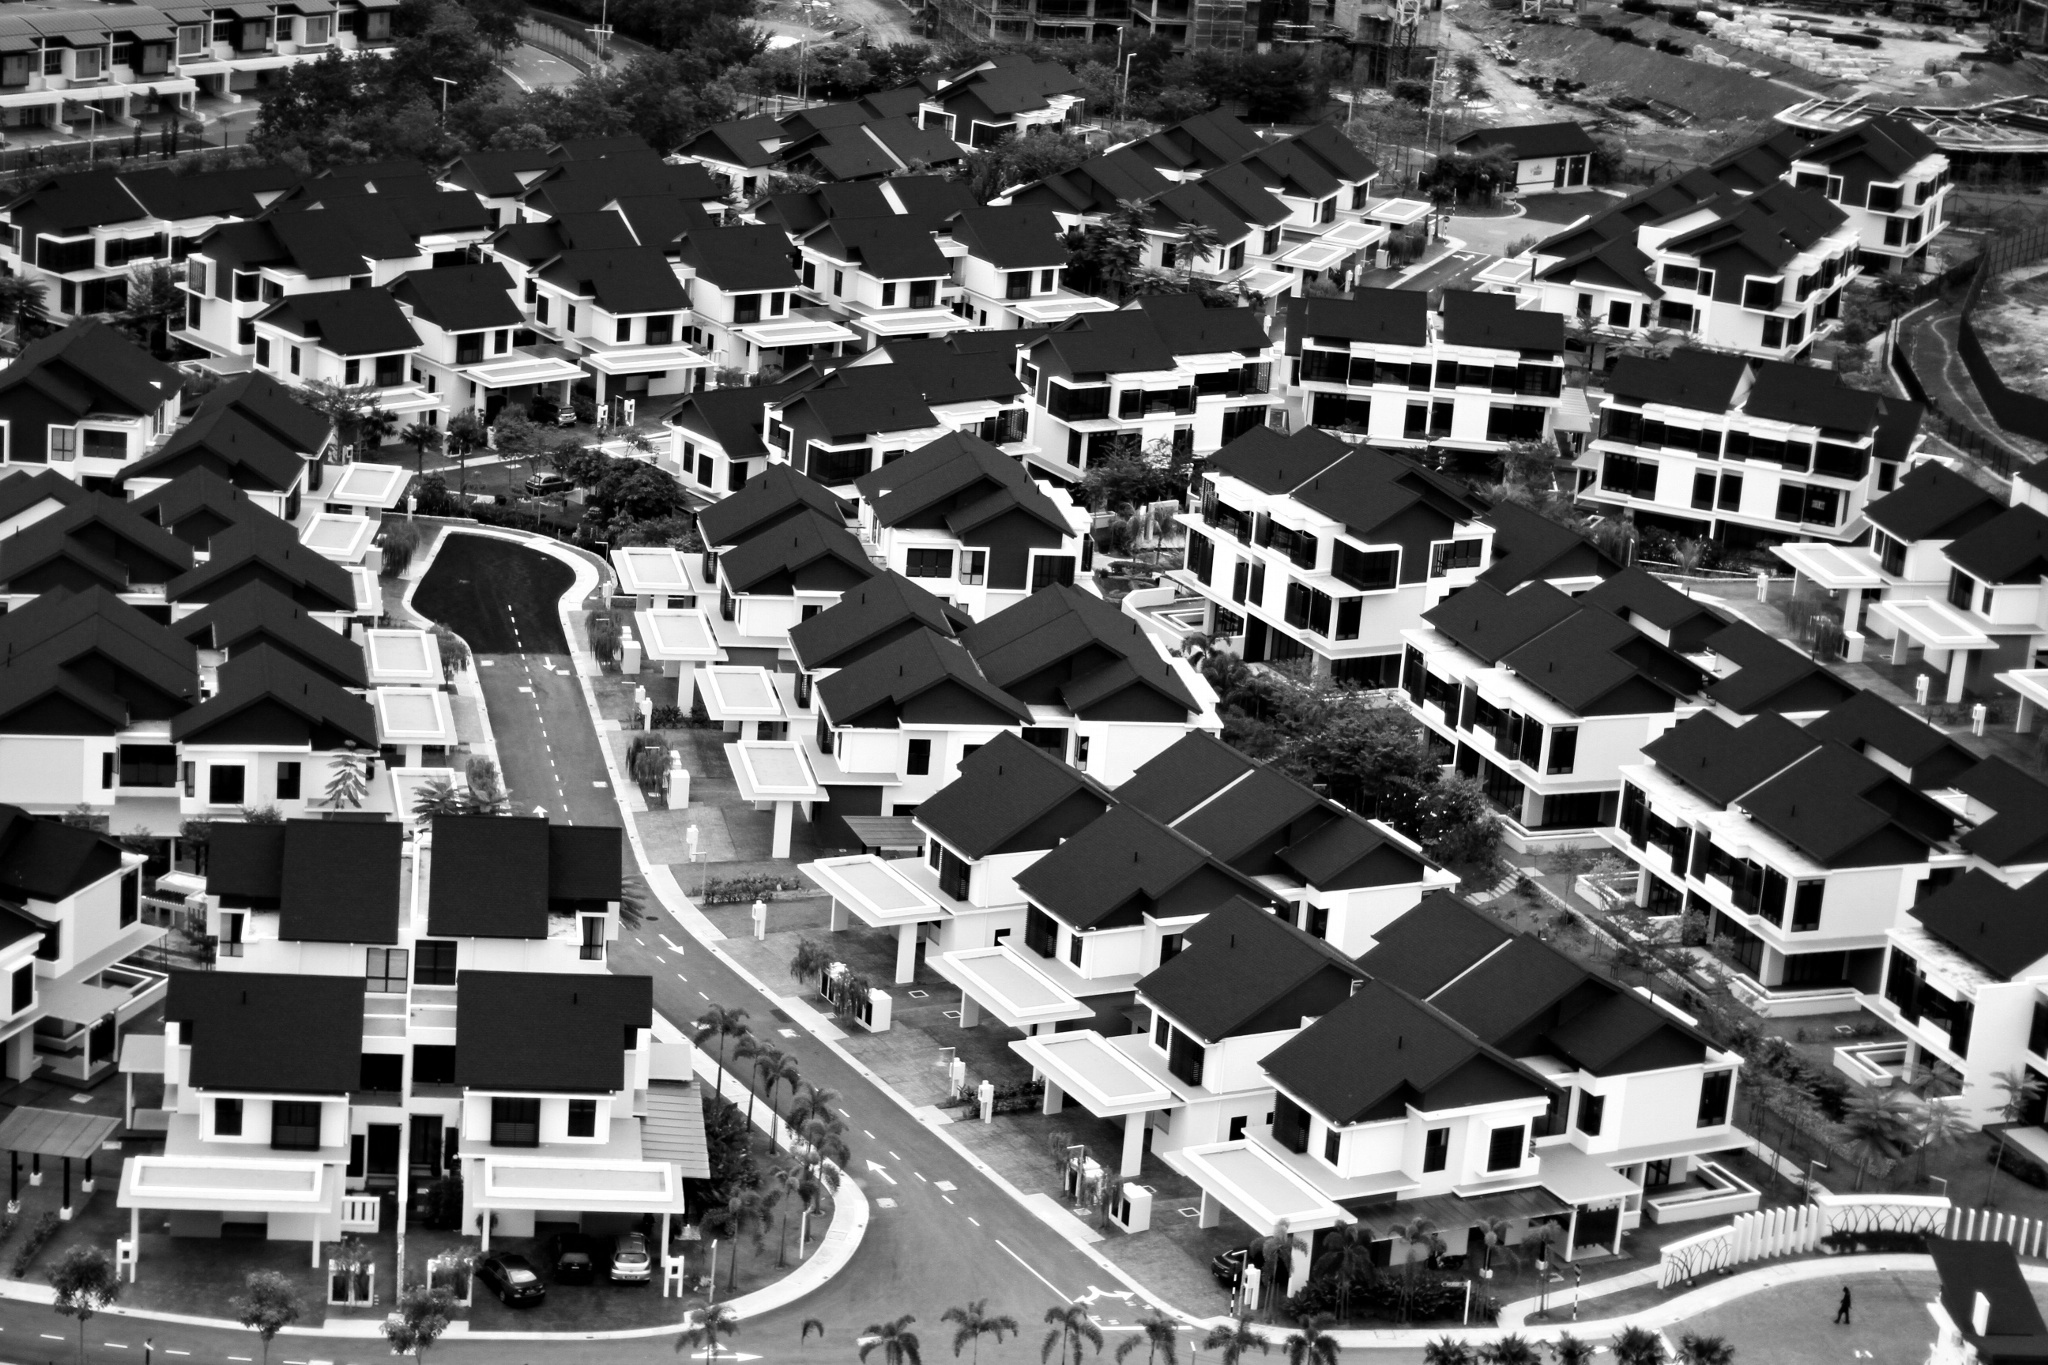
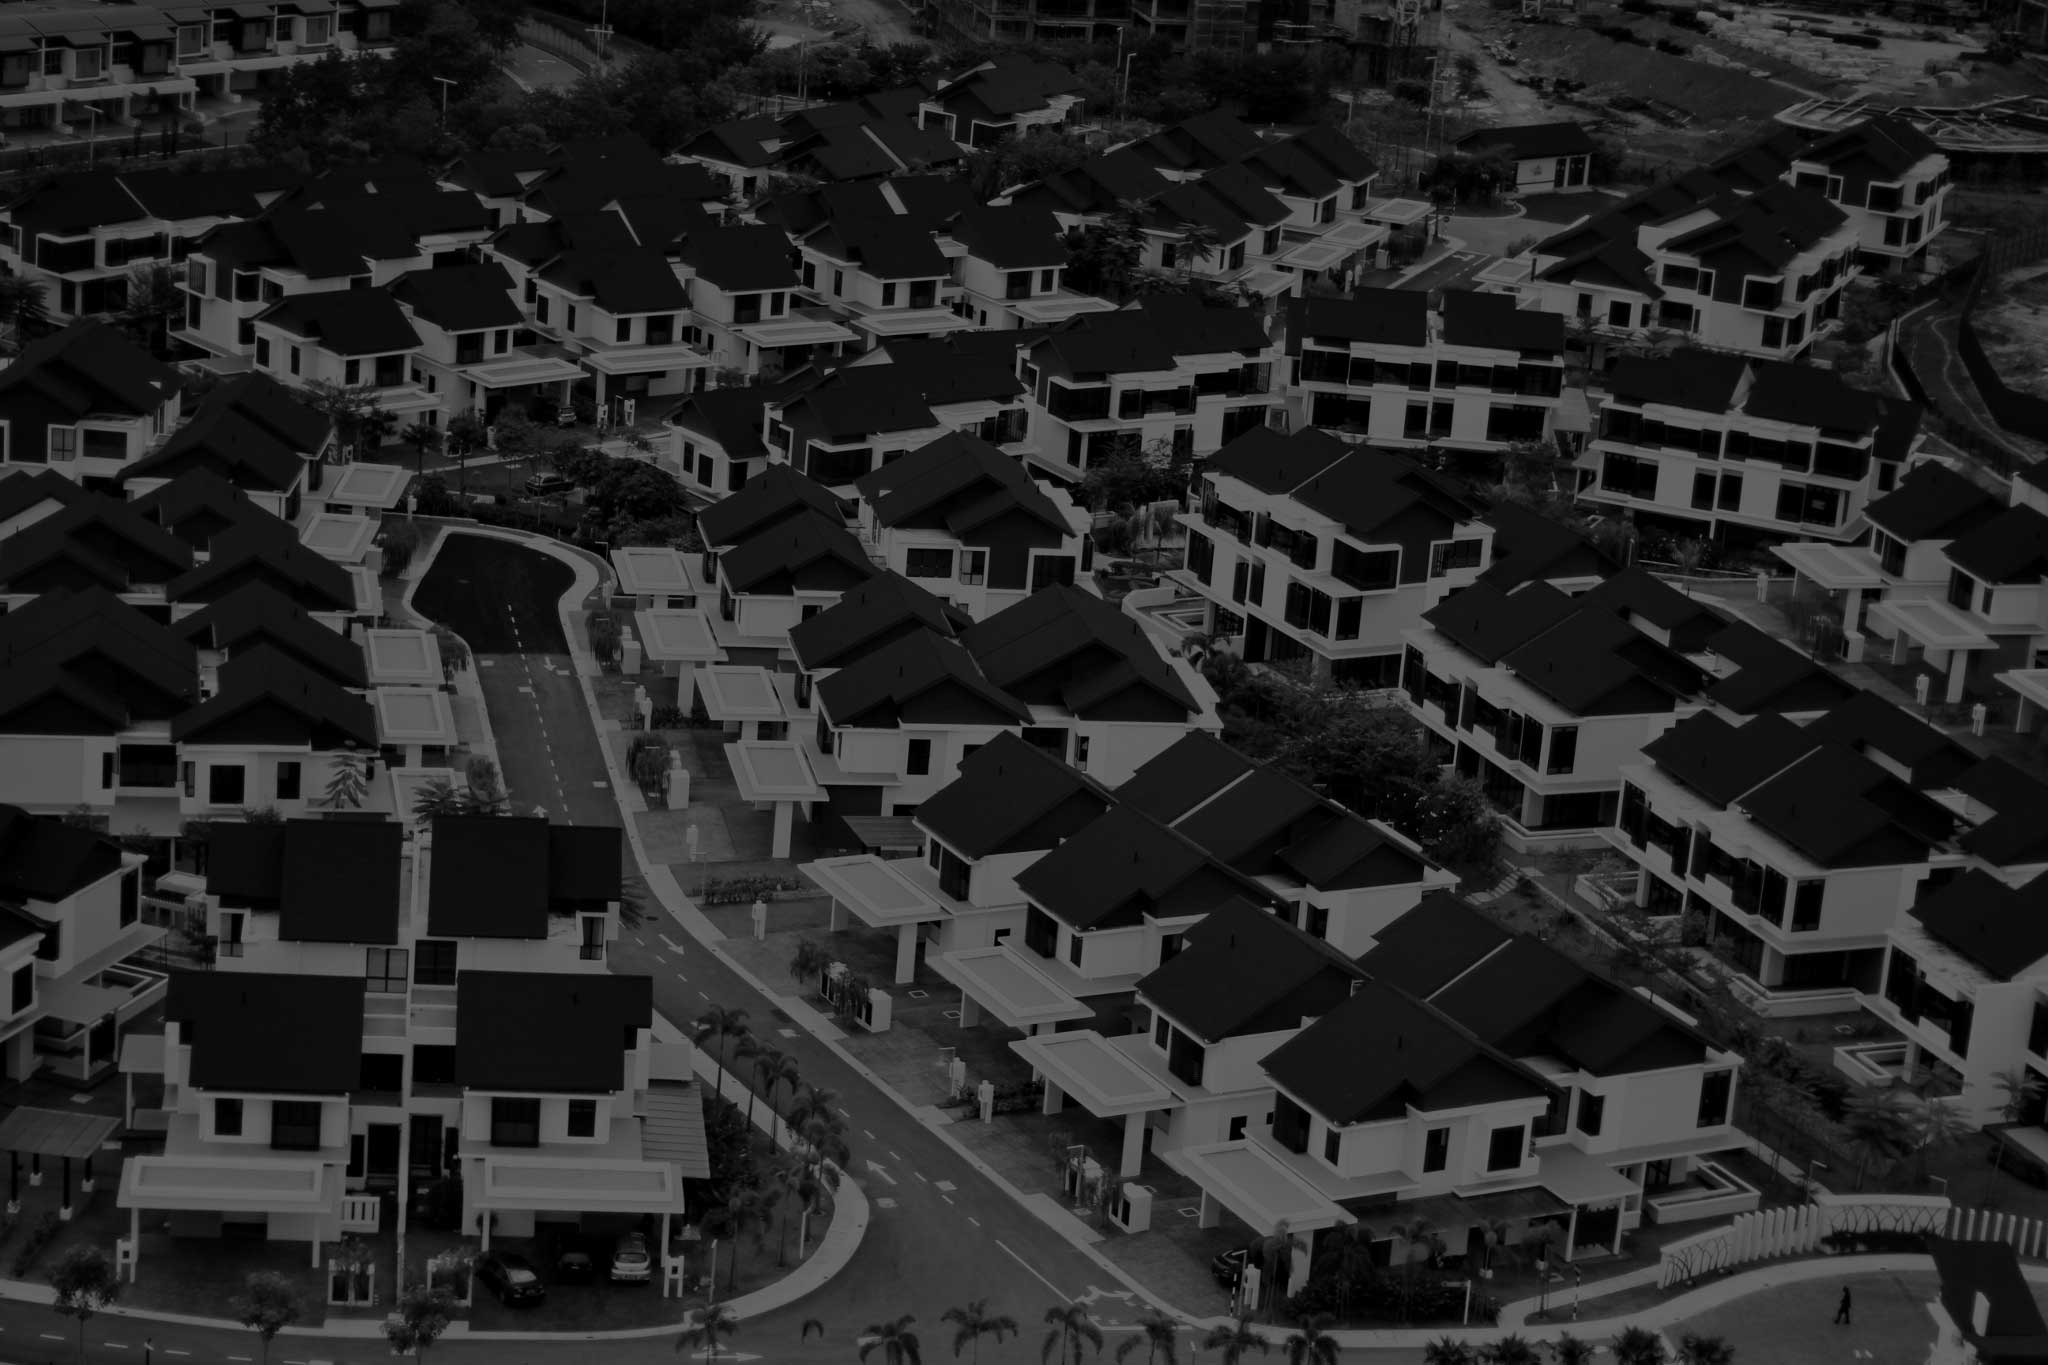
faisal

diff --git a/_includes/cfooter.html b/_includes/cfooter.html
@@ -1,0 +1,44 @@
+    <!-- Navigation -->
+    <nav class="navbar navbar-inverse navbar-fixed-bottom" role="navigation">
+        <div class="container">
+            <!-- Brand and toggle get grouped for better mobile display -->
+            <div class="navbar-header">
+                <button type="button" class="navbar-toggle" data-toggle="collapse" data-target="#bs-example-navbar-collapse-1">
+                    <span class="sr-only">Toggle navigation</span>
+                    <span class="icon-bar"></span>
+                    <span class="icon-bar"></span>
+                    <span class="icon-bar"></span>
+                </button>
+                <a class="navbar-brand" href="#">Start Bootstrap</a>
+            </div>
+            <!-- Collect the nav links, forms, and other content for toggling -->
+            <div class="collapse navbar-collapse" id="bs-example-navbar-collapse-1">
+                <ul class="nav navbar-nav">
+                    <li>
+                        <a href="#">About</a>
+                    </li>
+                    <li>
+                        <a href="#">Services</a>
+                    </li>
+                    <li>
+                        <a href="#">Contact</a>
+                    </li>
+                </ul>
+            </div>
+            <!-- /.navbar-collapse -->
+        </div>
+        <!-- /.container -->
+    </nav>
+	
+	
+<!-- jQuery -->
+<script src="http://code.jquery.com/jquery-1.11.3.min.js"></script>
+<script src="http://code.jquery.com/jquery-migrate-1.2.1.min.js"></script>
+<script src="http://cdnjs.cloudflare.com/ajax/libs/jquery-easing/1.3/jquery.easing.min.js"></script>
+
+<!-- Bootstrap Core JavaScript -->
+<script src="{{ "/js/jquery.superslides.min.js" | prepend: site.baseurl }}"></script>
+<script src="{{ "/js/slide-every.js" | prepend: site.baseurl }}"></script>
+<script src="{{ "/js/bootstrap.min.js" | prepend: site.baseurl }}"></script>
+<script src="{{ "/js/jquery.mosaicflow.min.js" | prepend: site.baseurl }}"></script>
+<script src="{{ "/js/main.js" | prepend: site.baseurl }}"></script>

diff --git a/contact/index.html b/contact/index.html
@@ -1,5 +1,5 @@
 ---
-layout: about
+layout: contact
 ---
 
 
@@ -7,28 +7,25 @@ layout: about
 
 
 
-<div class="header-background full-height">
-		<div id="slides_contact" class="">
-			<div class="slides-container relative">
-				<div class="bg-header" style="background-image: url('/imgs/areas.jpg')"></div>  				
-			</div> 	
-		</div>
-		<div class="overlay"></div>
-		<div class="content-header">
-			<div class="sub-title"><span>a Portfolio &amp; Blog of</span></div>
-			<h1>FAISAL ZAMAN</h1>
-			<p>Programming | Gaming | Photography</p>
-		</div>
-	</div>
+	<!-- Page Content -->
+    <div class="container">
+        <div class="row">
+            <div class="col-md-6 col-sm-12 contact-details">
+                <h2>I would like to hear from you. Say Hello!</h2>
+                <p>
+				Ideas, enquires, collaborations or just say hello.
+				</p>
+            </div>            
+			
+			<div class="col-md-6 col-sm-12 contact-details">               
+                <p>
+				email: jquery404[at]gmail[dot]com
+				</p>
+            </div>
+        </div>
+        <!-- /.row -->
+    </div>
+    <!-- /.container -->
 
-<div class= "container">
+	
 
-	<div class="row">
-		<div class="col-8">
-			I'm a UX/UI Designer and Front End Developer from Sydney, Australia.
-
-			I enjoy turning complex problems into simple, beautiful and intuitive interface designs. When I'm not coding or pushing pixels, you'll find me in the gym or on the court shooting hoops.
-		</div>
-	</div>
-
-</div>

diff --git a/css/theme.css b/css/theme.css
@@ -4,6 +4,20 @@
  * For details, see http://www.apache.org/licenses/LICENSE-2.0.
  */
 
+html.full {
+	background: url(../imgs/areas.jpg) no-repeat center center fixed;
+	-webkit-background-size: cover;
+	-moz-background-size: cover;
+	-o-background-size: cover;
+	background-size: cover;
+}
+
+body.full{
+	margin-top: 50px;
+	margin-bottom: 50px;
+	background: none;
+}
+
 body {
     overflow-x: hidden;
 	font-family: "Lato";
@@ -370,6 +384,16 @@ h1 {
     font-weight: normal;
     font-style: normal;
 }
+
+.contact-details h2{
+	font-family: 'lato';
+}
+
+.contact-details{
+	color: #fff;
+}
+
+
 /* end bg full height  */
 
 

diff --git a/_layouts/contact.html b/_layouts/contact.html
@@ -1,0 +1,21 @@
+<!DOCTYPE html>
+<html class="full">
+
+  {% include head.html %}
+
+  <body class="full">
+
+    {% include header.html %}
+	
+	
+	<!-- <div class="container theme-showcase" role="main"> -->
+	
+		{{ content }}
+			
+	<!-- </div> -->
+
+    {% include cfooter.html %}
+
+  </body>
+
+</html>
